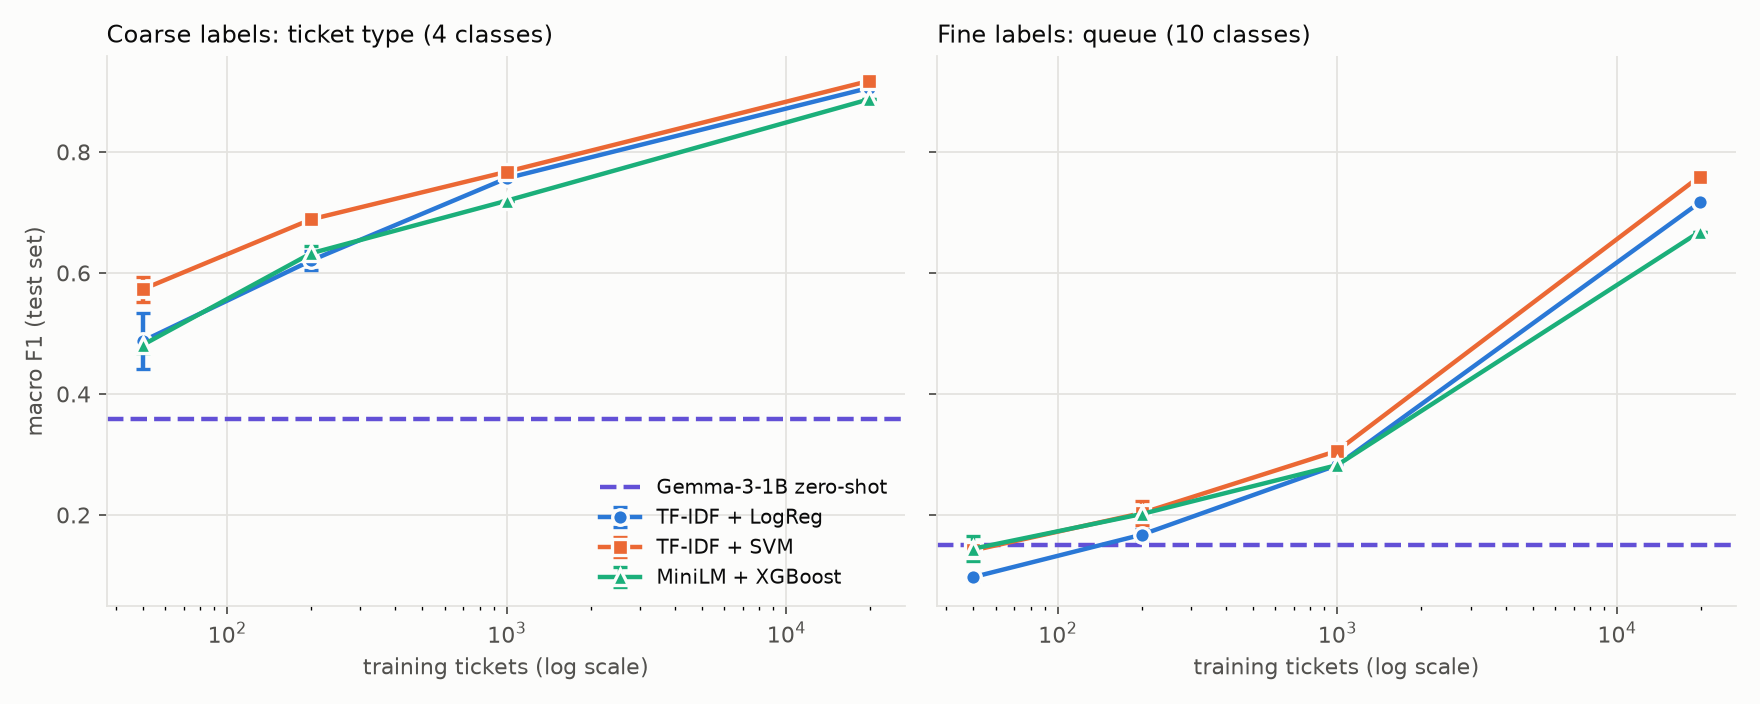
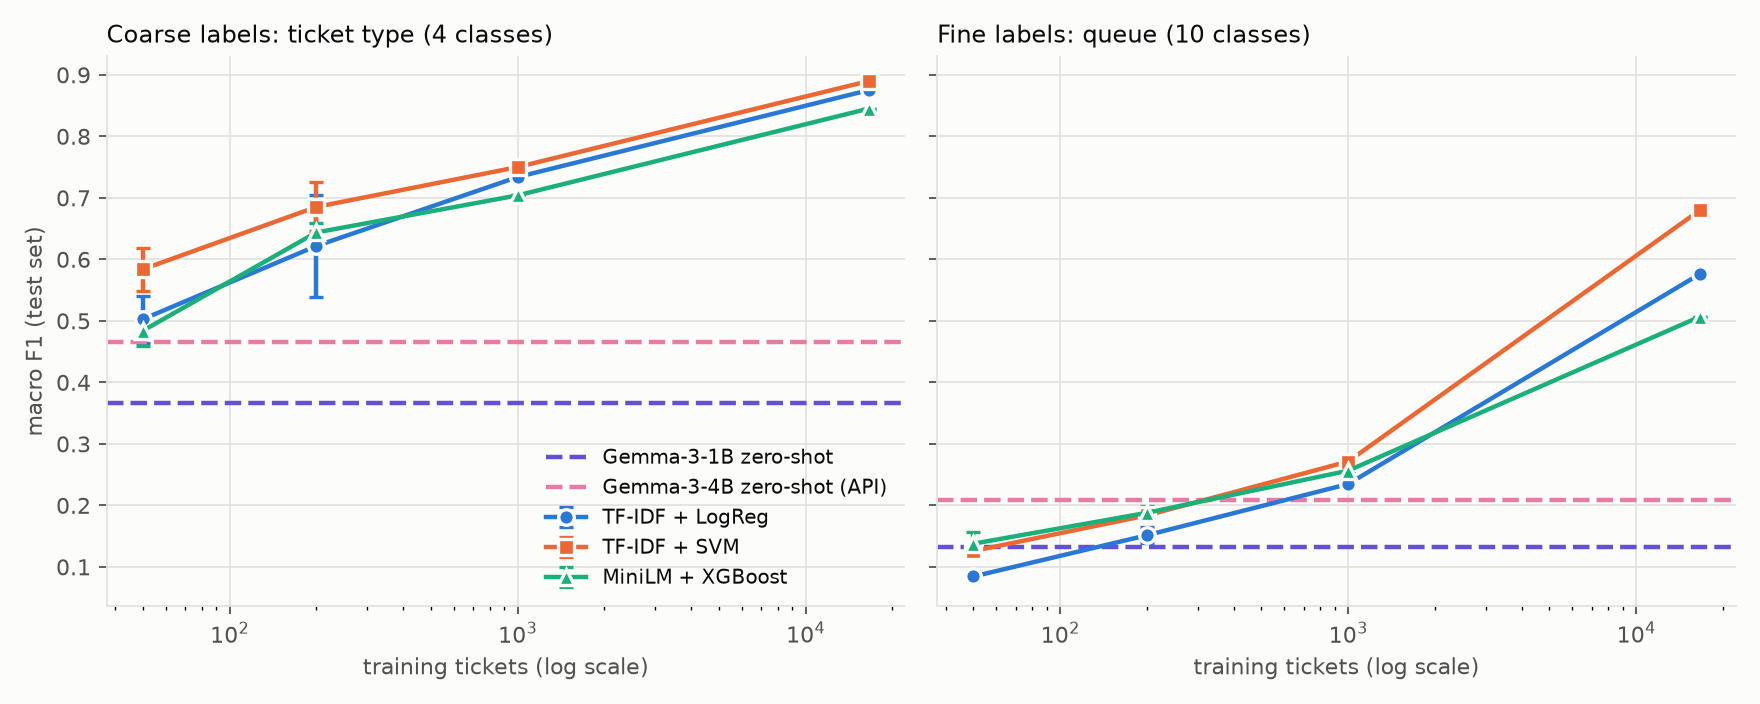
docs: final results with deduped data and Gemma-4B (API); chart shows both SLMs

diff --git a/src/slmbench/report.py b/src/slmbench/report.py
@@ -19,7 +19,7 @@ STYLE = {
     "tfidf-svm": ("#eb6834", "s", "TF-IDF + SVM"),
     "embed-xgb": ("#1baf7a", "^", "MiniLM + XGBoost"),
     ZEROSHOT: ("#6250d6", "D", "Gemma-3-1B zero-shot"),
-    "gemma-3-4b-zeroshot": ("#e87ba4", "D", "Gemma-3-4B zero-shot"),
+    "gemma-3-4b-api-zeroshot": ("#e87ba4", "D", "Gemma-3-4B zero-shot (API)"),
 }
 INK, MUTED, GRID, SURFACE = "#0b0b0b", "#52514e", "#e4e3df", "#fcfcfb"
 TITLE = {
@@ -33,10 +33,11 @@ def make_summary(raw: pd.DataFrame) -> pd.DataFrame:
     return aggregate(raw).round(4)
 
 
-def plot_crossover(summary: pd.DataFrame, out: Path) -> None:
+def plot_crossover(summary: pd.DataFrame, out: Path) -> list[str]:
     grans = [g for g in ("coarse", "fine") if g in set(summary.granularity)]
     fig, axes = plt.subplots(1, len(grans), figsize=(11, 4.4), sharey=True, facecolor=SURFACE)
     axes = [axes] if len(grans) == 1 else list(axes)
+    plotted: list[str] = []
     for ax, gran in zip(axes, grans, strict=True):
         ax.set_facecolor(SURFACE)
         part = summary[summary.granularity == gran]
@@ -44,6 +45,8 @@ def plot_crossover(summary: pd.DataFrame, out: Path) -> None:
             m = part[part.model == model].sort_values("n_train")
             if m.empty:
                 continue
+            if model not in plotted:
+                plotted.append(model)
             if model.endswith("-zeroshot"):
                 y = m.macro_f1_mean.iloc[0]
                 ax.axhline(y, color=color, lw=2, ls="--", label=label)
@@ -76,6 +79,7 @@ def plot_crossover(summary: pd.DataFrame, out: Path) -> None:
     fig.tight_layout()
     fig.savefig(out, dpi=160, facecolor=SURFACE)
     plt.close(fig)
+    return plotted
 
 
 def majority_baseline(train_labels: pd.Series, test_labels: pd.Series) -> dict[str, float]:

diff --git a/tests/test_report.py b/tests/test_report.py
@@ -53,10 +53,10 @@ def test_majority_baseline():
 def test_plot_handles_two_zeroshot_models(tmp_path):
     raw = raw_frame()
     extra = raw[raw.model == "gemma-3-1b-zeroshot"].copy()
-    extra["model"] = "gemma-3-4b-zeroshot"
+    extra["model"] = "gemma-3-4b-api-zeroshot"
     extra["macro_f1"] = 0.55
     s = make_summary(pd.concat([raw, extra]))
     out = tmp_path / "c.png"
-    plot_crossover(s, out)
+    plotted = plot_crossover(s, out)
     assert out.exists()
-    assert (s.model == "gemma-3-4b-zeroshot").sum() == 2
+    assert "gemma-3-4b-api-zeroshot" in plotted and "gemma-3-1b-zeroshot" in plotted

diff --git a/README.md b/README.md
@@ -1,76 +1,104 @@
 # SLM vs classical ML for support-ticket classification
 
-**Question:** how does a zero-shot small language model (Gemma-3-1B) compare with classical ML classifiers on
+**Question:** how does a zero-shot small language model (SLM) compare with classical ML classifiers on
 support-ticket classification — in accuracy, macro F1, latency and memory — as training data and label
 granularity vary, and is an SLM necessary for simple classification at all?
 
-**Short answer:** on this task, no. Zero-shot Gemma-3-1B lost to every classical model at every training size
-we tried, except at ~50 training tickets on the 10-class labels, where it is roughly level with them
-(0.150 vs 0.10–0.14). It is also 250× slower
-and uses 10–17× more memory than TF-IDF models.
+**Short answer:** mostly no, but not never. A zero-shot SLM is the wrong tool when you have even a few hundred
+labeled tickets and the labels are simple. It becomes competitive only in a low-label regime on harder
+(10-class) labels, and the bigger SLM (4B) shows that scale helps. Every option scores poorly on the hard labels.
 
 ![Macro F1 vs training size](results/crossover.png)
 
 ## Setup
-- **Data:** `Tobi-Bueck/customer-support-tickets`, English only, 28,261 tickets (see
-  [docs/dataset-choice.md](docs/dataset-choice.md)). Split 70/15/15, stratified, fixed seed; test = 4,240 tickets.
+- **Data:** `Tobi-Bueck/customer-support-tickets`, English only, **exact-duplicate texts removed**
+  (23,748 unique tickets; see [docs/dataset-choice.md](docs/dataset-choice.md)). Split 70/15/15, stratified, fixed seed:
+  16,622 train / 3,563 val / **3,563 test**. All models are scored on the same test set.
 - **Two label granularities:** *coarse* = ticket type (4 classes: Incident, Request, Problem, Change);
-  *fine* = support queue (10 classes). These are two different label spaces, not a hierarchy: "coarse" means
-  fewer classes.
-- **Models:** TF-IDF (1–2-grams) + LogReg; TF-IDF + linear SVM (C tuned on val from {0.1, 1, 10});
-  `all-MiniLM-L6-v2` embeddings + XGBoost (defaults); `gemma-3-1b-it` bf16 via MLX, **zero-shot**: the prompt lists
-  the labels and we pick the label whose first distinguishing token has the highest log-probability (always a valid label).
-- **Sweep:** 50 / 200 / 1,000 / full (19,782) training tickets; 3 seeds for 50 and 200 (mean ± std shown), 1 seed above.
-  Gemma needs no training so it is a flat line.
-- **Costs:** per-ticket latency at batch size 1 after warm-up (200 test tickets), throughput on those 200 in one call,
-  peak RSS measured in an isolated subprocess per model.
+  *fine* = support queue (10 classes). These are different label spaces, not a hierarchy: "coarse" means fewer classes.
+- **Classical models:** TF-IDF (1–2-grams) + LogReg; TF-IDF + linear SVM (C tuned on val from {0.1, 1, 10} for both);
+  `all-MiniLM-L6-v2` embeddings + XGBoost (300 trees, depth 6, lr 0.1; not tuned).
+- **Zero-shot SLMs** (same prompt: list the labels, ask for the category name only):
+  - **Gemma-3-1B** (`gemma-3-1b-it` bf16), run locally on an M4 Pro via MLX. The label is the one whose first
+    distinguishing token has the highest log-probability, so the output is always a valid label.
+  - **Gemma-3-4B** (`google/gemma-3-4b-it`) through **OpenRouter** (temperature 0). The reply text is parsed to a
+    label; anything unparseable counts as wrong (4 of 3,563 on coarse, 0 on fine).
+- **Sweep:** 50 / 200 / 1,000 / full (16,622) training tickets; 3 seeds for 50 and 200 (mean ± std), 1 seed above.
+  Zero-shot models need no training, so they are flat lines.
+- **Costs:** per-ticket latency at batch size 1 after warm-up; peak RSS measured in an isolated subprocess per local model.
 
-## Results (macro F1 on the test set; full table in `results/summary.csv`)
+## Results (macro F1 on the test set; full table with accuracy in `results/summary.csv`)
 
 | Model | coarse 50 | coarse 200 | coarse 1k | coarse full | fine 50 | fine 200 | fine 1k | fine full |
 |---|---|---|---|---|---|---|---|---|
-| TF-IDF + LogReg | 0.488 | 0.621 | 0.756 | 0.906 | 0.097 | 0.167 | 0.282 | 0.716 |
-| TF-IDF + SVM | 0.573 | 0.689 | 0.767 | **0.917** | 0.142 | 0.203 | **0.306** | **0.759** |
-| MiniLM + XGBoost | 0.481 | 0.633 | 0.719 | 0.887 | 0.144 | 0.202 | 0.282 | 0.668 |
-| Gemma-3-1B zero-shot | 0.359 | 0.359 | 0.359 | 0.359 | 0.150 | 0.150 | 0.150 | 0.150 |
+| TF-IDF + LogReg | 0.503 | 0.622 | 0.734 | 0.875 | 0.084 | 0.151 | 0.235 | 0.576 |
+| TF-IDF + SVM | 0.584 | 0.685 | 0.750 | **0.890** | 0.126 | 0.184 | **0.271** | **0.680** |
+| MiniLM + XGBoost | 0.484 | 0.644 | 0.704 | 0.845 | 0.138 | 0.188 | 0.256 | 0.507 |
+| Gemma-3-1B zero-shot | 0.366 | 0.366 | 0.366 | 0.366 | 0.133 | 0.133 | 0.133 | 0.133 |
+| Gemma-3-4B zero-shot (API) | 0.466 | 0.466 | 0.466 | 0.466 | **0.208** | 0.208 | 0.208 | 0.208 |
 
-| Model | p50 latency | throughput | peak RSS |
+Accuracy matters here too, because macro F1 can hide a model that mostly guesses one class. Always predicting the most
+common class scores accuracy 0.401 / macro F1 0.143 on coarse and 0.289 / 0.045 on fine.
+
+| Accuracy | coarse | fine |
+|---|---|---|
+| Majority-class baseline | 0.401 | 0.289 |
+| Gemma-3-1B zero-shot | 0.390 | 0.146 |
+| Gemma-3-4B zero-shot (API) | 0.654 | 0.288 |
+| Classical, 50 tickets | 0.57–0.66 | 0.26–0.28 |
+| Classical, full | 0.86–0.88 | 0.58–0.67 |
+
+| Cost | p50 latency / ticket | throughput | peak RSS |
 |---|---|---|---|
-| TF-IDF + LogReg / SVM | 0.22 ms | ~36–39k tickets/s | 0.23–0.68 GB |
-| MiniLM + XGBoost | 4 ms | ~1.0–1.2k tickets/s | 0.74–1.13 GB |
-| Gemma-3-1B zero-shot | 54 ms (coarse) – 75 ms (fine) | 10–16 tickets/s | 3.9 GB |
+| TF-IDF + LogReg / SVM | 0.2 ms | ~31–40k tickets/s | 0.22–0.65 GB |
+| MiniLM + XGBoost | 3.8–4.6 ms | ~840–1,100 tickets/s | 0.74–1.10 GB |
+| Gemma-3-1B (local) | 53 ms (coarse), 75 ms (fine) | 12–16 tickets/s | 3.9 GB |
+| Gemma-3-4B (API) | 420–530 ms, includes network | not measured | not applicable (remote) |
 
-RSS includes the training process for the trained models (fit + predict), and the model weights for Gemma.
+RSS for the classical models includes the training process (fit + predict); for Gemma-1B it includes the model weights.
+The API latency is a network round trip plus remote inference, so it is not comparable with the local numbers.
 
 ## What this says
-- **Coarse labels (4 classes):** even 50 labeled tickets beat zero-shot Gemma (0.48–0.57 vs 0.36). There is no
-  crossover inside the range we tested; if one exists it is below ~50 labels.
-- **Fine labels (10 classes):** at 50 tickets Gemma's 0.150 edges out all three classical models (0.097–0.144), but every
-  score there is very low (all near chance for 10 classes). By 200 tickets the SVM and XGBoost are ahead, and by
-  the full set the classical models are ~4–5× better. So the SLM "wins" only when there is essentially no labeled
-  data and many confusable classes, and then only barely.
-- **Cost:** the classical models are 250× (SVM/LogReg) to 14× (XGBoost) faster per ticket and use a fraction of
-  Gemma's memory. A zero-shot SLM buys you "no labels needed", and that is all it buys here.
-- **Is an SLM necessary for a task like this?** No. If you have even a few hundred labeled tickets, TF-IDF + a
-  linear model is more accurate, orders of magnitude cheaper, and easier to run.
+- **Simple labels (4-class type): the SLM is not needed.** With 50 labeled tickets the SVM (0.58) and LogReg (0.50)
+  already beat Gemma-1B (0.37). Gemma-4B (0.47) is roughly equal to what XGBoost gets from ~50 labels, and every
+  classical model passes it by 200 tickets (0.62–0.69).
+- **Harder labels (10-class queue): there is a real low-label regime for a bigger SLM.** Gemma-4B's 0.208 beats all
+  three classical models at 50 and 200 tickets (0.08–0.19). Between 200 and 1,000 tickets the classical models pass it
+  (0.24–0.27), and with the full set they are 2.4–3.3× better (0.51–0.68). Gemma-1B (0.133) only competes below
+  ~200 tickets, and the classical models are ahead of it from 200 up.
+- **Scale helps.** Going from 1B to 4B adds +0.10 macro F1 on coarse and +0.075 on fine, and +0.26 / +0.14 accuracy.
+  Gemma-1B's accuracy is below the majority-class baseline on both granularities, so its macro F1 mostly reflects
+  spreading predictions across classes, not being right more often.
+- **Everyone is weak on the fine labels.** At 50–1,000 tickets the classical models' accuracy (0.26–0.38) is about the
+  majority-class level, and the SLMs are not much better (0.288 for 4B). The queue labels are ambiguous in this dataset.
+- **Cost:** TF-IDF models are ~250–350× faster per ticket than Gemma-1B and use 6–18× less memory; XGBoost is 12–20×
+  faster. The 4B API call is about 2,000× slower per ticket than TF-IDF and sends every ticket to a third party. The
+  API cost for this experiment was under $0.10 at $0.04 / $0.05 per 1M tokens.
+- **Is an SLM necessary?** For a labeled-data-rich, simple task, no. A zero-shot SLM earns its place when you have almost
+  no labels or are cold-starting a harder taxonomy, and then a larger one (4B) is much better than 1B.
 
 ## Caveats (read before quoting numbers)
-- One SLM (1B parameters), one prompt, no prompt tuning, no few-shot examples. A larger model or a tuned prompt
-  would likely score higher; this measures the smallest practical case, as intended.
-- The dataset is LLM-generated and multilingual (we use English only). Its queue labels are somewhat ambiguous
-  (the best classical model reaches only 0.76 macro F1 with 20k labels), which depresses every model on the fine labels.
-- A single train/val/test split; only the small-size points have seed variance (3 seeds). Results at 1k and full
-  have no error bars.
-- Zero-shot latency covers one forward pass over a ~300-token prompt; we do not include model load time.
-- Hardware: Apple M4 Pro, 24 GB. Latency and memory numbers do not transfer to other hardware.
+- **The two SLMs are not scored the same way.** Gemma-1B uses label-token log-probabilities locally; Gemma-4B uses
+  generated text from a hosted API (unknown provider precision/quantization). Some of the 1B→4B gap could come from
+  the method, not only the model size. One prompt, no tuning, no few-shot examples.
+- **Dataset:** LLM-generated and multilingual (English only here), with ambiguous queue labels. Results may not
+  transfer to real helpdesk data.
+- **Deduplication:** we removed exact duplicate texts before splitting (an earlier run without this had ~23% of test
+  tickets duplicated in train and overstated full-data classical scores by ~0.08–0.16 macro F1 on fine labels). Near-duplicates
+  may remain.
+- **Statistics:** one train/val/test split; seed variance exists only at 50 and 200 tickets (3 seeds). The 1k and full
+  points have no error bars, and differences of ~0.02 should not be read as real.
+- **Ticket truncation is approximate:** 256 tokens locally, 200 words for the API.
+- Hardware: Apple M4 Pro, 24 GB. Local latency and memory numbers do not transfer to other machines.
 
 ## Reproduce
 ```bash
 uv sync
-uv run python scripts/recon_datasets.py   # optional: dataset comparison
-uv run python scripts/run_sweep.py        # ~20 min on an M4 Pro; resumable; writes results/raw.csv
-uv run python scripts/make_report.py      # results/summary.csv + results/crossover.png
+uv run python scripts/recon_datasets.py        # optional: dataset comparison
+uv run python scripts/run_sweep.py             # classical models + Gemma-1B (~20 min on an M4 Pro); resumable
+uv run python scripts/run_api_zeroshot.py      # Gemma-4B via OpenRouter; needs OPENROUTER_API_KEY in .env (git-ignored)
+uv run python scripts/make_report.py           # results/summary.csv, baselines.csv, crossover.png
 uv run pytest
 ```
-Requires the cached models `mlx-community/gemma-3-1b-it-bf16` and `sentence-transformers/all-MiniLM-L6-v2`
-(downloaded automatically from Hugging Face on first use). See [CLAUDE.md](CLAUDE.md) for project conventions.
+Local models used: `mlx-community/gemma-3-1b-it-bf16` and `sentence-transformers/all-MiniLM-L6-v2` (downloaded from
+Hugging Face on first use). Project conventions are in [CLAUDE.md](CLAUDE.md).

diff --git a/CLAUDE.md b/CLAUDE.md
@@ -10,16 +10,22 @@ granularities. Spec: `docs/superpowers/specs/`. Plan: `docs/superpowers/plans/`.
 - `uv add <pkg>` / `uv add --dev <pkg>` — add dependencies (commit `uv.lock`)
 - `uv run pytest` — tests (`uv run pytest tests/test_x.py::test_name` for one)
 - `uv run ruff check . && uv run ruff format .` — lint + format
-- `uv run python scripts/<name>.py` — entry points (`recon_datasets`, `run_sweep`, `make_report`)
+- `uv run python scripts/<name>.py` — entry points (`recon_datasets`, `run_sweep`, `run_zeroshot`,
+  `run_api_zeroshot`, `make_report`, `smoke_zeroshot`)
 
 ## Platform
 Apple Silicon (M4 Pro, 24 GB). The SLM runs through **MLX** (`mlx-lm`), which is macOS/arm64 only.
 Models are already in `~/.cache/huggingface/hub` (`mlx-community/gemma-3-1b-it-bf16`,
 `sentence-transformers/all-MiniLM-L6-v2`). **Ask before downloading any other model or large dataset.**
 
+## Secrets and external calls
+`OPENROUTER_API_KEY` lives in `.env` (git-ignored; loaded with `load_dotenv()`). Never print, log or commit it.
+The API run sends test tickets (public synthetic data) to OpenRouter; confirm before sending anything else.
+API latency is network + remote inference and is never compared directly with local latency/memory.
+
 ## Layout
 - `src/slmbench/` — `data` (load, splits, subsample), `metrics`, `models` (classical),
-  `embeddings` (cached MiniLM), `zeroshot` (Gemma), `bench` (latency/memory), `sweep`, `report`
+  `embeddings` (cached MiniLM), `zeroshot` (local Gemma-1B), `openrouter` (Gemma-4B via API), `bench` (latency/memory), `sweep`, `report`
 - `scripts/` — thin CLI entry points only; logic lives in `src/`
 - `tests/` — unit tests; `data/` and `results/` are gitignored (except `results/summary.csv`,
   `results/crossover.png`)
@@ -28,6 +34,7 @@ Models are already in `~/.cache/huggingface/hub` (`mlx-community/gemma-3-1b-it-b
 ## Experiment rules
 - Fixed seeds everywhere; splits are stratified and deterministic.
 - The **test set is used only for final numbers**. Tune hyperparameters on val.
+- Dedupe exact-duplicate texts **before** splitting (leakage inflated scores ~0.1 F1 once).
 - Never edit raw data; derived data goes in `data/` and is regenerable.
 - Cache embeddings in `data/cache/`.
 - Benchmark latency/memory **in an isolated subprocess per model**, batch size 1 after warm-up,
@@ -46,3 +53,4 @@ Models are already in `~/.cache/huggingface/hub` (`mlx-community/gemma-3-1b-it-b
 - Commit `data/`, model weights, `.env`, or credentials.
 - Use Bitext (templated; makes the comparison trivially easy) as the dataset.
 - Fine-tune the SLM — zero-shot only.
+- Download large models without asking (the 12B Gemma does not fit in 24 GB anyway).

diff --git a/docs/dataset-choice.md b/docs/dataset-choice.md
@@ -1,9 +1,9 @@
 # Dataset choice
 
-**Chosen: `Tobi-Bueck/customer-support-tickets`, English rows only** (28,261 tickets, mean 410 chars).
+**Chosen: `Tobi-Bueck/customer-support-tickets`, English rows only, exact-duplicate texts removed** (23,748 unique tickets after dedup, from 28,261 English rows; mean ~410 chars).
 No credentials needed. Text = `subject + "\n" + body`.
 
-| Granularity | Column | Classes | TF-IDF+LR macro-F1 (quick 80/20) |
+| Granularity | Column | Classes | TF-IDF+LR macro-F1 (quick 80/20, before dedup) |
 |---|---|---|---|
 | coarse | `type` (Incident / Request / Problem / Change) | 4 | 0.877 |
 | fine | `queue` (10 support queues, 8149 … 404 per class) | 10 | 0.476 |
@@ -17,3 +17,6 @@ Candidates (`scripts/recon_datasets.py`):
 neither trivial (queue 0.48) nor saturated. Caveat: the corpus is LLM-generated and multilingual
 (we keep English only), and **`type` and `queue` are two different label spaces, not a hierarchy**
 ("coarse" = fewer classes, "fine" = more). Report this honestly in the README.
+
+**Dedup note:** ~4.5k exact-duplicate texts existed; ~23% of test rows had a train twin before dedup, which inflated
+classical scores. Deduplication happens in `slmbench.data.clean_tickets` before splitting.
